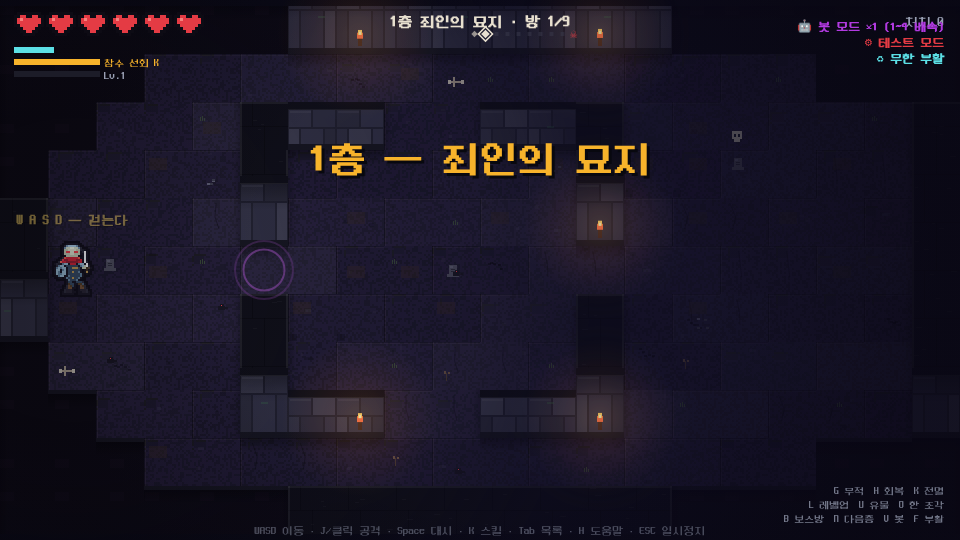
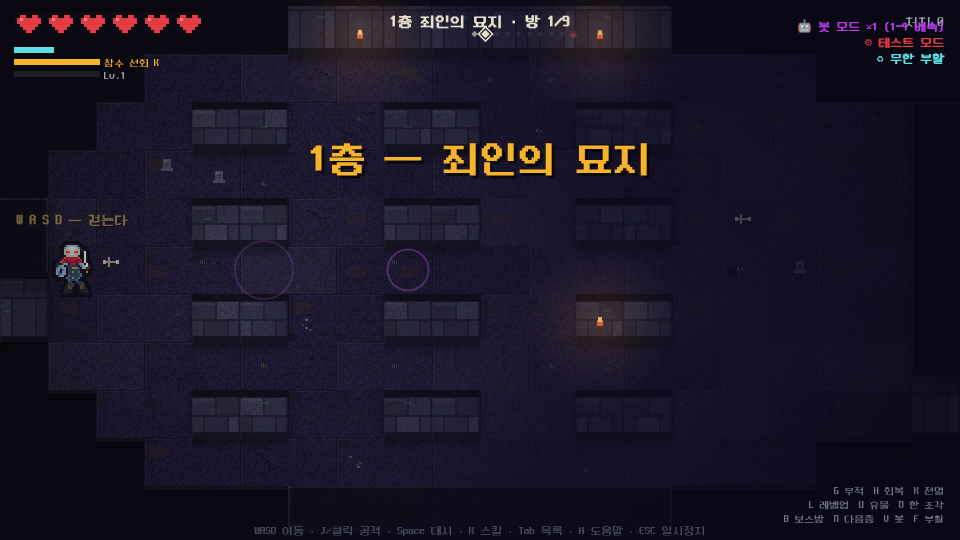
v200: 벽에 결(grain) + 광원 규칙 — 통짜 면을 없앤다
바닥에 이어 벽. 다만 벽은 갈아엎지 않는다 —
v124 벽돌 단위 명암과 v191 「벽 솟음」은 잘 작동하던 설계다.
구조는 그대로 두고 **통짜 면만** 없앤다.

CRAFT._grainTile — 구조를 건드리지 않는 반투명 노이즈
  밝은 알갱이는 따뜻하게(255,226,176), 어두운 알갱이는 차갑게(22,16,40).
  여기서도 색온도를 가른다 — 밝기만 다르면 회색으로 죽는다.

벽 정면: 결을 솟은 높이까지 덮고, 좌측 모서리에 빛 1px / 우측에 그늘 2px
         → 광원 좌상단 규칙이 바닥·묘비에 이어 벽에도 적용된다
벽 윗면: 결만. 통짜 면이면 배경 어둠과 구분이 안 된다

tools/shot.js — 반복 작업용 캡처 도구를 저장소 안으로 옮긴다
  (스크래치패드에 두니 환경이 지워 매번 다시 만들어야 했다)

검증: 116항목 전부 통과

Claude-Session: https://claude.ai/code/session_017D97PE3KR5L6sYH1NiXRpV

diff --git a/web/js/game/world.js b/web/js/game/world.js
@@ -190,12 +190,35 @@ const CRAFT = {
     return cv;
   },
 
+  // ── 결(grain) ── 구조를 건드리지 않고 질감만 얹는 반투명 노이즈.
+  // 벽은 이미 v191 「벽 솟음」과 벽돌 단위 명암이라는 좋은 구조를 갖고 있다.
+  // 그걸 갈아엎지 않고 **결만** 덧입힌다 — 통짜 면이 사라지는 게 목적이다.
+  _grainTile(seed) {
+    const S = this.SRC, W = S;
+    const cv = document.createElement('canvas'); cv.width = S; cv.height = S;
+    const g = cv.getContext('2d');
+    const img = g.createImageData(S, S), d = img.data;
+    for (let y = 0; y < S; y++) for (let x = 0; x < S; x++) {
+      const n = this.hash(x, y, seed);
+      const i = (y * W + x) * 4;
+      // 밝은 알갱이는 따뜻하게, 어두운 알갱이는 차갑게 — 여기서도 색온도를 가른다
+      if (n > 0.90)      { d[i] = 255; d[i+1] = 226; d[i+2] = 176; d[i+3] = 26; }
+      else if (n > 0.80) { d[i] = 255; d[i+1] = 236; d[i+2] = 206; d[i+3] = 12; }
+      else if (n < 0.10) { d[i] = 22;  d[i+1] = 16;  d[i+2] = 40;  d[i+3] = 46; }
+      else if (n < 0.22) { d[i] = 30;  d[i+1] = 24;  d[i+2] = 52;  d[i+3] = 22; }
+      else d[i+3] = 0;
+    }
+    g.putImageData(img, 0, 0);
+    return cv;
+  },
+
   // 테마별 세트 — 한 번만 굽고 캐시한다
   set(th, key) {
     if (this._cache[key]) return this._cache[key];
-    const s = { floor: [], face: [], top: [] };
+    const s = { floor: [], face: [], top: [], grain: [] };
     for (let i = 0; i < this.VARIANTS; i++) s.floor.push(this._floorTile(th, i * 97 + 11));
     for (let i = 0; i < 6; i++) { s.face.push(this._wallFaceTile(th, i * 53 + 7)); s.top.push(this._wallTopTile(th, i * 31 + 3)); }
+    for (let i = 0; i < 8; i++) s.grain.push(this._grainTile(i * 41 + 19));
     this._cache[key] = s;
     return s;
   },
@@ -1959,6 +1982,18 @@ const World = {
           // 아래 립
           ctx.fillStyle = th.wallDark;
           ctx.fillRect(x, y + TS - 6, TS, 6);
+          // ── v200 결 + 광원 규칙 ──
+          // 벽돌 구조(v124)와 벽 솟음(v191)은 좋은 설계라 건드리지 않는다.
+          // 통짜 면만 없앤다: 반투명 노이즈를 얹고, 빛을 좌상단으로 통일한다
+          {
+            const gi = Math.floor(CRAFT.hash(tx, ty, 3) * 8) % 8;
+            const gt = craft.grain[gi];
+            for (let gy = y - rise; gy < y + TS; gy += TS) ctx.drawImage(gt, x, gy, TS, TS);
+            ctx.fillStyle = 'rgba(255,222,170,0.055)';        // 좌측 모서리에 걸린 빛
+            ctx.fillRect(x, y - rise + 8, 1, TS + rise - 8);
+            ctx.fillStyle = 'rgba(18,12,34,0.34)';            // 우측은 그늘 (광원 반대쪽)
+            ctx.fillRect(x + TS - 2, y - rise + 8, 2, TS + rise - 8);
+          }
           // 벽돌 하이라이트 — 꼭대기 모서리에 얹는다
           ctx.fillStyle = 'rgba(255,255,255,0.05)';
           ctx.fillRect(x + 2, y - rise + 9, TS / 2 - 3, 2);
@@ -2012,6 +2047,8 @@ const World = {
           for (let i = 0; i < 3; i++) {
             ctx.fillRect(x + RNG.int(2, TS - 8), y + RNG.int(2, TS - 4), RNG.int(3, 6), 1);
           }
+          // v200 결 — 윗면도 통짜 면이면 배경 어둠과 같아진다
+          ctx.drawImage(craft.grain[Math.floor(CRAFT.hash(tx, ty, 7) * 8) % 8], x, y, TS, TS);
           // 바닥과 접한 전 방향 모서리 — 벽 실루엣이 어둠 속에서도 읽힌다
           ctx.fillStyle = 'rgba(255,255,255,0.075)';
           if (!this._wallAt(tx - 1, ty)) ctx.fillRect(x, y, 2, TS);

diff --git a/tools/shot.js b/tools/shot.js
@@ -1,0 +1,26 @@
+// 한 장 찍기 — 맵/전투 화면을 그대로 캡처한다 (아트 반복 작업용)
+//   node tools/shot.js [출력경로] [층] [방종류]
+const { chromium } = require('playwright-core');
+const CHROME = process.env.CHROME_PATH || '/opt/pw-browsers/chromium-1194/chrome-linux/chrome';
+const BASE = process.env.VERIFY_URL || 'http://127.0.0.1:8137';
+const OUT = process.argv[2] || 'docs/audit/live-map-now.png';
+const FLOOR = parseInt(process.argv[3] || '1', 10);
+const KIND = process.argv[4] || 'combat';
+(async () => {
+  const b = await chromium.launch({ executablePath: CHROME });
+  const p = await b.newPage({ viewport: { width: 960, height: 540 } });
+  const errs = [];
+  p.on('pageerror', (e) => errs.push(e.message.slice(0, 200)));
+  await p.goto(`${BASE}/?test=1&bot=1`);
+  await p.waitForFunction(() => typeof Game !== 'undefined' && Game.state === 'play');
+  await p.evaluate(([f, k]) => {
+    Dungeon.floor = f;
+    Dungeon.roomIndex = k === 'boss' ? Dungeon.totalRooms : 1;
+    Dungeon.build(k);
+    if (k !== 'boss') Game.enemies.length = 0;
+  }, [FLOOR, KIND]);
+  await p.waitForTimeout(KIND === 'boss' ? 3000 : 700);
+  await p.screenshot({ path: OUT });
+  await b.close();
+  console.log('ok ' + OUT + (errs.length ? '  ⚠ ' + errs[0] : ''));
+})().catch((e) => { console.log('CRASH', e.message); process.exit(2); });
